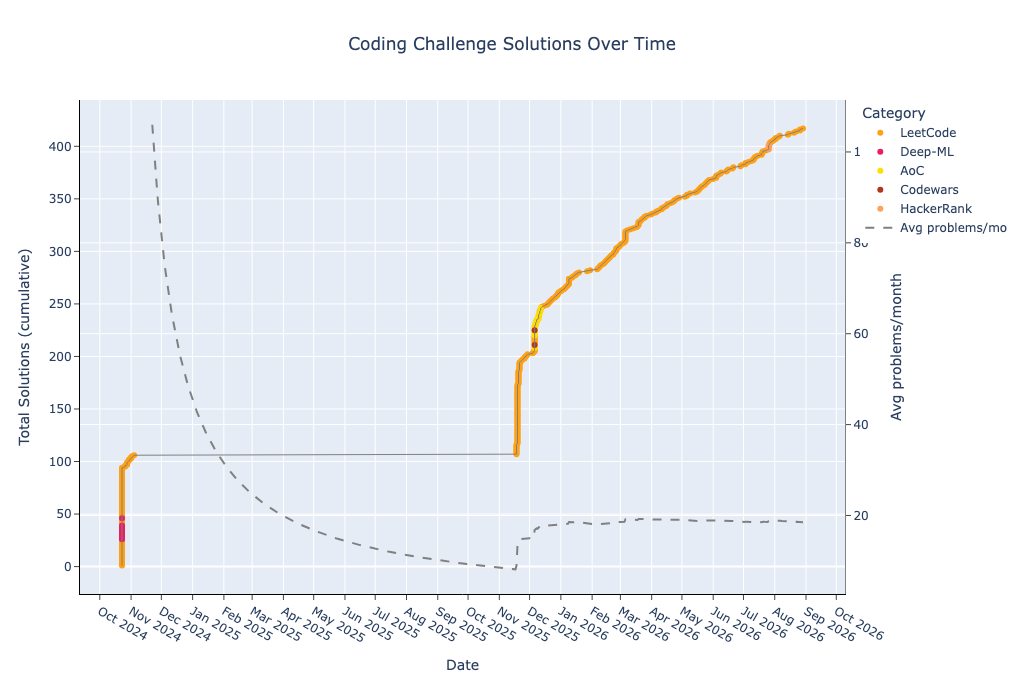
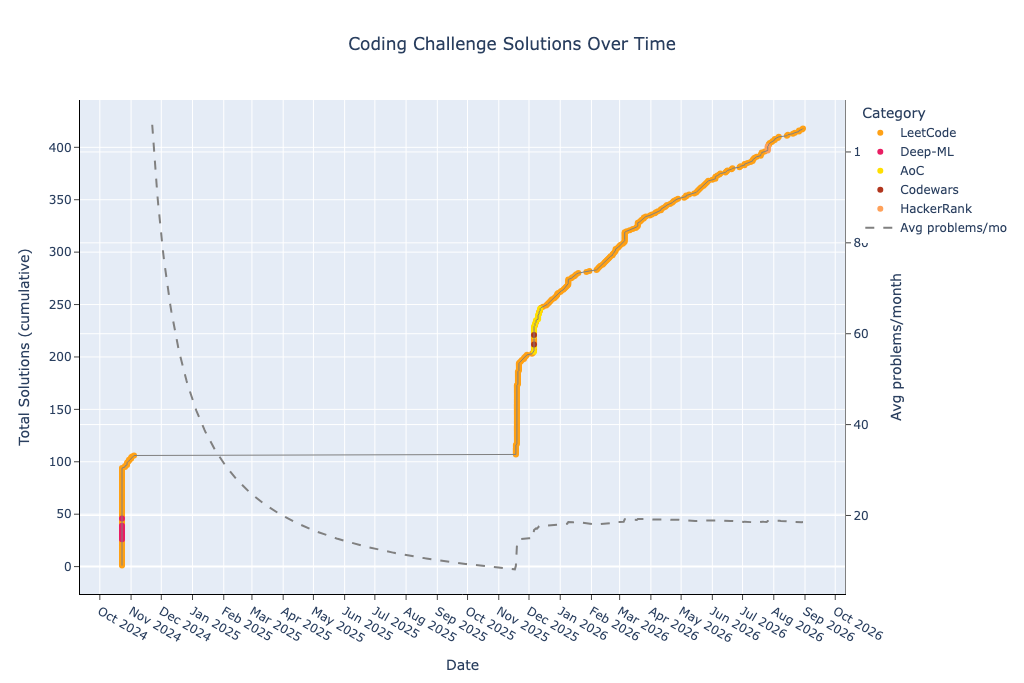
Regenerate README

diff --git a/README.md b/README.md
@@ -41,9 +41,9 @@ This repository contains a collection of coding problems solved on various platf
 | hackerrank-easy | 2 | 17 | 8 | 2 | 0 | 4 | 1 | 0 | 0 | 0 | 2 | 0 | 0 | 0 | 0 | 0 | 0 | 0 |
 | hackerrank-medium | 3 | 57 | 19 | 4 | 1 | 3 | 7 | 0 | 0 | 0 | 6 | 0 | 0 | 2 | 0 | 0 | 1 | 0 |
 | leetcode-easy | 134 | 2184 | 16 | 183 | 6 | 172 | 167 | 50 | 6 | 15 | 217 | 4 | 7 | 16 | 1 | 0 | 16 | 0 |
-| leetcode-medium | 202 | 5156 | 25 | 355 | 9 | 523 | 389 | 117 | 22 | 48 | 437 | 7 | 43 | 64 | 11 | 29 | 31 | 7 |
+| leetcode-medium | 203 | 5171 | 25 | 356 | 9 | 525 | 390 | 117 | 22 | 48 | 438 | 7 | 43 | 64 | 11 | 29 | 31 | 7 |
 | leetcode-hard | 36 | 1150 | 31 | 66 | 5 | 109 | 98 | 24 | 11 | 17 | 83 | 3 | 7 | 15 | 8 | 5 | 9 | 9 |
-| **total** | 417 | 9988 | 23 | 717 | 22 | 947 | 830 | 197 | 40 | 93 | 854 | 27 | 68 | 113 | 22 | 39 | 60 | 16 |
+| **total** | 418 | 10003 | 23 | 718 | 22 | 949 | 831 | 197 | 40 | 93 | 855 | 27 | 68 | 113 | 22 | 39 | 60 | 16 |
 
 ---
 
@@ -51,6 +51,7 @@ This repository contains a collection of coding problems solved on various platf
 
 | Date | Type | Challenge | Problem | Solution |
 | --- | --- | --- | --- | --- |
+| 2026-08-30 | LeetCode Medium | Removing Minimum and Maximum From Array | [leetcode.com](https://leetcode.com/problems/removing-minimum-and-maximum-from-array/) | [python](leetcode/medium/2091.%20Removing%20Minimum%20and%20Maximum%20From%20Array.py) |
 | 2026-08-29 | LeetCode Medium | Make Lexicographically Smallest Array by Swapping Elements | [leetcode.com](https://leetcode.com/problems/make-lexicographically-smallest-array-by-swapping-elements/) | [python](leetcode/medium/2948.%20Make%20Lexicographically%20Smallest%20Array%20by%20Swapping%20Elements.py) |
 | 2026-08-26 | LeetCode Medium | Shortest and Lexicographically Smallest Beautiful String | [leetcode.com](https://leetcode.com/problems/shortest-and-lexicographically-smallest-beautiful-string/) | [python](leetcode/medium/2904.%20Shortest%20and%20Lexicographically%20Smallest%20Beautiful%20String.py) |
 | 2026-08-26 | LeetCode Medium | Shortest and Lexicographically Smallest Beautiful String | [leetcode.com](https://leetcode.com/problems/shortest-and-lexicographically-smallest-beautiful-string/) | [python](leetcode/medium/2904.%20Shortest%20and%20Lexicographically%20Smallest%20Beautiful%20String.py) |
@@ -60,7 +61,6 @@ This repository contains a collection of coding problems solved on various platf
 | 2026-08-15 | LeetCode Medium | Longest Subsequence With Non-Zero Bitwise XOR | [leetcode.com](https://leetcode.com/problems/longest-subsequence-with-non-zero-bitwise-xor/) | [python](leetcode/medium/3702.%20Longest%20Subsequence%20With%20Non-Zero%20Bitwise%20XOR.py) |
 | 2026-08-14 | LeetCode Easy | Maximum Length Substring With Two Occurrences | [leetcode.com](https://leetcode.com/problems/maximum-length-substring-with-two-occurrences/) | [python](leetcode/easy/3090.%20Maximum%20Length%20Substring%20With%20Two%20Occurrences.py) |
 | 2026-08-12 | LeetCode Medium | Length of Longest Subarray With at Most K Frequency | [leetcode.com](https://leetcode.com/problems/length-of-longest-subarray-with-at-most-k-frequency/) | [python](leetcode/medium/2958.%20Length%20of%20Longest%20Subarray%20With%20at%20Most%20K%20Frequency.py) |
-| 2026-08-06 | LeetCode Easy | Smallest Divisible Digit Product I | [leetcode.com](https://leetcode.com/problems/smallest-divisible-digit-product-i/) | [python](leetcode/easy/3345.%20Smallest%20Divisible%20Digit%20Product%20I.py) |
 # Advent of Code
 ### 2025
 | Day | Challenge | Time | Space | Problem | Solution |
@@ -434,6 +434,7 @@ This repository contains a collection of coding problems solved on various platf
 | 2058 | Find the Minimum and Maximum Number of Nodes Between Critical Points | O(n) | O(1) | [leetcode.com](https://leetcode.com/problems/find-the-minimum-and-maximum-number-of-nodes-between-critical-points/) | [python](leetcode/medium/2058.%20Find%20the%20Minimum%20and%20Maximum%20Number%20of%20Nodes%20Between%20Critical%20Points.py) |
 | 2061 | Number of Spaces Cleaning Robot Cleaned | O(n * m) | O(n * m) | [leetcode.com](https://leetcode.com/problems/number-of-spaces-cleaning-robot-cleaned/) | [python](leetcode/medium/2061.%20Number%20of%20Spaces%20Cleaning%20Robot%20Cleaned.py) |
 | 2069 | Walking Robot Simulation II | O(n + m) | O(1) | [leetcode.com](https://leetcode.com/problems/walking-robot-simulation-ii/) | [python](leetcode/medium/2069.%20Walking%20Robot%20Simulation%20II.py) |
+| 2091 | Removing Minimum and Maximum From Array | O(n) | O(1) | [leetcode.com](https://leetcode.com/problems/removing-minimum-and-maximum-from-array/) | [python](leetcode/medium/2091.%20Removing%20Minimum%20and%20Maximum%20From%20Array.py) |
 | 2095 | Delete the Middle Node of a Linked List | O(n) | O(1) | [leetcode.com](https://leetcode.com/problems/delete-the-middle-node-of-a-linked-list/) | [python](leetcode/medium/2095.%20Delete%20the%20Middle%20Node%20of%20a%20Linked%20List.py) |
 | 2096 | Step-By-Step Directions From a Binary Tree Node to Another | O(n) | O(n) | [leetcode.com](https://leetcode.com/problems/step-by-step-directions-from-a-binary-tree-node-to-another/) | [python](leetcode/medium/2096.%20Step-By-Step%20Directions%20From%20a%20Binary%20Tree%20Node%20to%20Another.py) |
 | 2110 | Number of Smooth Descent Periods of a Stock | O(n) | O(1) | [leetcode.com](https://leetcode.com/problems/number-of-smooth-descent-periods-of-a-stock/) | [python](leetcode/medium/2110.%20Number%20of%20Smooth%20Descent%20Periods%20of%20a%20Stock.py) |

diff --git a/CHANGES.md b/CHANGES.md
@@ -4,6 +4,7 @@
 
 | Date | Type | Challenge | Problem | Solution |
 | --- | --- | --- | --- | --- |
+| 2026-08-30 | LeetCode Medium | Removing Minimum and Maximum From Array | [leetcode.com](https://leetcode.com/problems/removing-minimum-and-maximum-from-array/) | [python](leetcode/medium/2091.%20Removing%20Minimum%20and%20Maximum%20From%20Array.py) |
 | 2026-08-29 | LeetCode Medium | Make Lexicographically Smallest Array by Swapping Elements | [leetcode.com](https://leetcode.com/problems/make-lexicographically-smallest-array-by-swapping-elements/) | [python](leetcode/medium/2948.%20Make%20Lexicographically%20Smallest%20Array%20by%20Swapping%20Elements.py) |
 | 2026-08-26 | LeetCode Medium | Shortest and Lexicographically Smallest Beautiful String | [leetcode.com](https://leetcode.com/problems/shortest-and-lexicographically-smallest-beautiful-string/) | [python](leetcode/medium/2904.%20Shortest%20and%20Lexicographically%20Smallest%20Beautiful%20String.py) |
 | 2026-08-26 | LeetCode Medium | Shortest and Lexicographically Smallest Beautiful String | [leetcode.com](https://leetcode.com/problems/shortest-and-lexicographically-smallest-beautiful-string/) | [python](leetcode/medium/2904.%20Shortest%20and%20Lexicographically%20Smallest%20Beautiful%20String.py) |
@@ -13,4 +14,3 @@
 | 2026-08-15 | LeetCode Medium | Longest Subsequence With Non-Zero Bitwise XOR | [leetcode.com](https://leetcode.com/problems/longest-subsequence-with-non-zero-bitwise-xor/) | [python](leetcode/medium/3702.%20Longest%20Subsequence%20With%20Non-Zero%20Bitwise%20XOR.py) |
 | 2026-08-14 | LeetCode Easy | Maximum Length Substring With Two Occurrences | [leetcode.com](https://leetcode.com/problems/maximum-length-substring-with-two-occurrences/) | [python](leetcode/easy/3090.%20Maximum%20Length%20Substring%20With%20Two%20Occurrences.py) |
 | 2026-08-12 | LeetCode Medium | Length of Longest Subarray With at Most K Frequency | [leetcode.com](https://leetcode.com/problems/length-of-longest-subarray-with-at-most-k-frequency/) | [python](leetcode/medium/2958.%20Length%20of%20Longest%20Subarray%20With%20at%20Most%20K%20Frequency.py) |
-| 2026-08-06 | LeetCode Easy | Smallest Divisible Digit Product I | [leetcode.com](https://leetcode.com/problems/smallest-divisible-digit-product-i/) | [python](leetcode/easy/3345.%20Smallest%20Divisible%20Digit%20Product%20I.py) |
